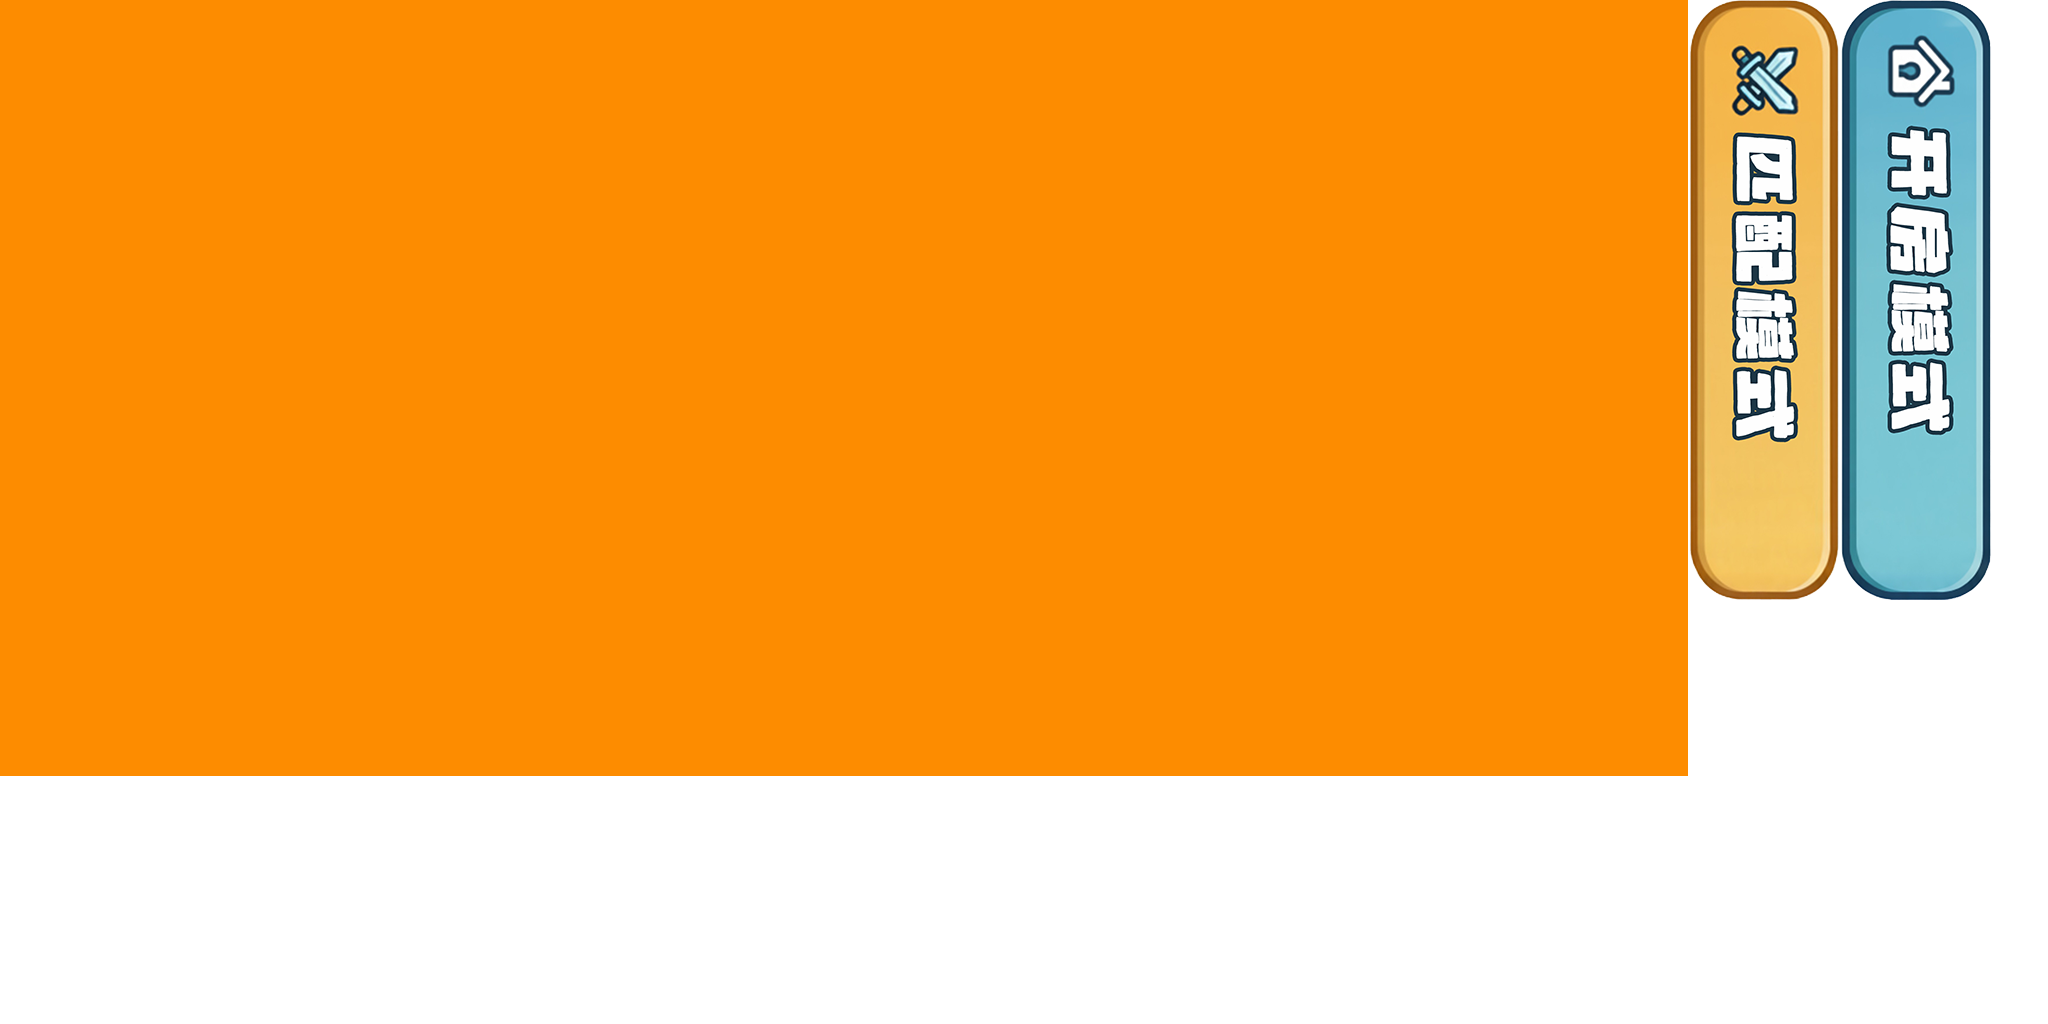
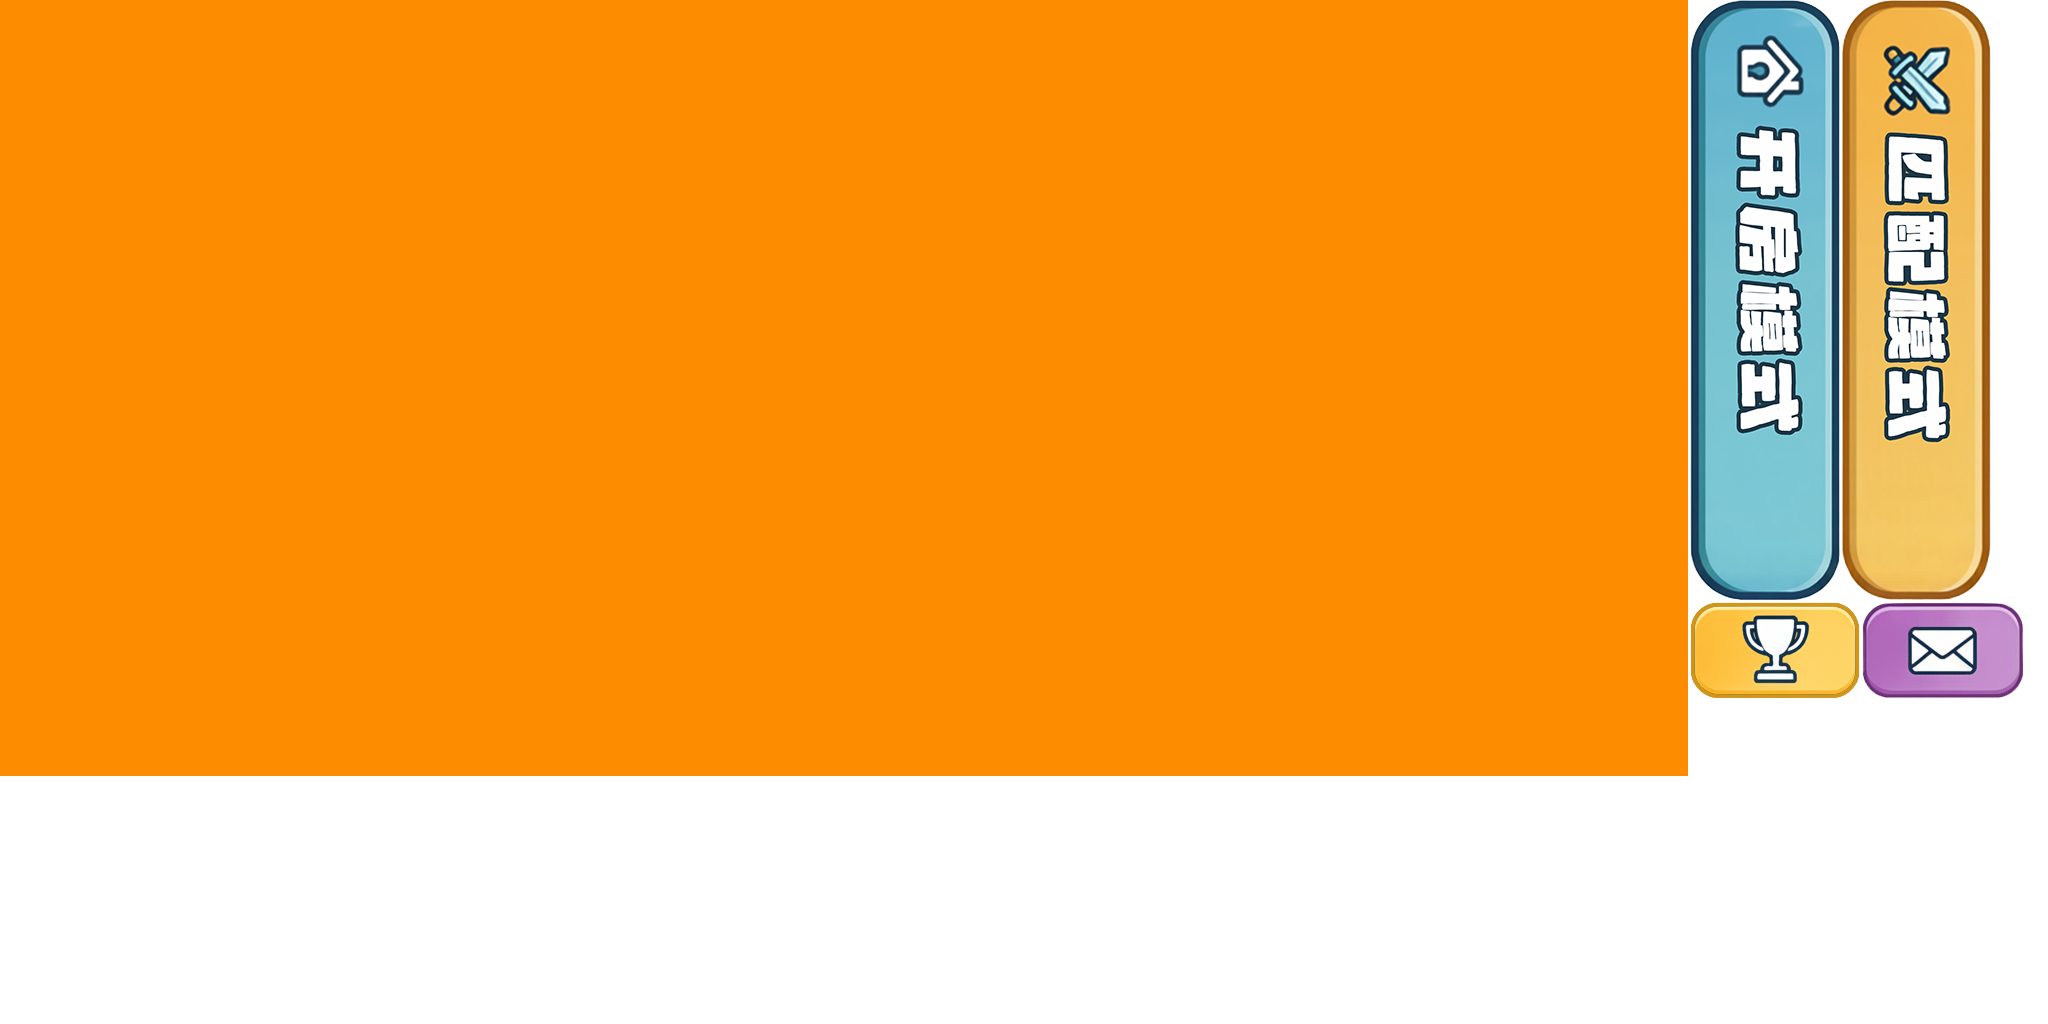
feat(lobby): 新增邮件和排名按钮及其事件处理
- 在LobbyView界面中添加邮件和排名按钮资源及组件
- 在package.xml注册邮件和排名图片资源
- 在FGUILobbyView.ts中声明并初始化邮件和排名按钮控件
- 为新增按钮绑定点击事件处理函数
- 增加空的点击事件接口onBtnMail和onBtnRank方便后续扩展

Changed region(s): [[0.8125, 0.0, 1.0, 0.6875]]

diff --git a/assets/scripts/fgui/lobby/FGUILobbyView.ts b/assets/scripts/fgui/lobby/FGUILobbyView.ts
@@ -12,6 +12,8 @@ export default class FGUILobbyView extends fgui.GComponent {
 	public UI_BTN_MATCH_ROOM:fgui.GButton;
 	public UI_BTN_PRIVATE_ROOM:fgui.GButton;
 	public UI_COMP_TOP:FGUICompTop;
+	public UI_BTN_MAIL:fgui.GImage;
+	public UI_BTN_RANK:fgui.GImage;
 	public static URL:string = "ui://gv22rev3sc722";
 
 	public static packageName:string = "lobby";
@@ -56,8 +58,14 @@ export default class FGUILobbyView extends fgui.GComponent {
 		this.UI_BTN_PRIVATE_ROOM = <fgui.GButton>(this.getChildAt(3));
 		this.UI_BTN_PRIVATE_ROOM.onClick(this.onBtnPrivateRoom, this);
 		this.UI_COMP_TOP = <FGUICompTop>(this.getChildAt(4));
+		this.UI_BTN_MAIL = <fgui.GImage>(this.getChildAt(5));
+		this.UI_BTN_MAIL.onClick(this.onBtnMail, this);
+		this.UI_BTN_RANK = <fgui.GImage>(this.getChildAt(6));
+		this.UI_BTN_RANK.onClick(this.onBtnRank, this);
 	}
 	onBtnMatchRoom():void{};
 	onBtnPrivateRoom():void{};
+	onBtnMail():void{};
+	onBtnRank():void{};
 }
 fgui.UIObjectFactory.setExtension(FGUILobbyView.URL, FGUILobbyView);
